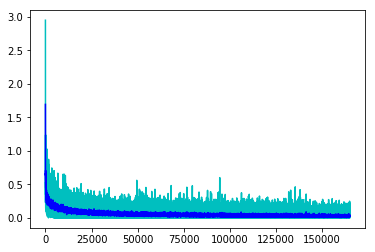
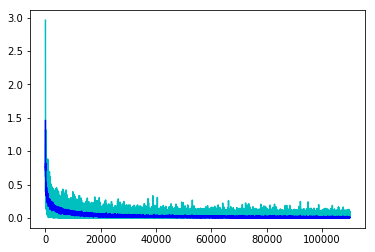
Reduce the number of hidden layers

diff --git a/magnet_loss.py b/magnet_loss.py
@@ -81,7 +81,7 @@ mnist = input_data.read_data_sets('MNIST_data')
 x_train, y_train = mnist.train.images, mnist.train.labels
 
 learning_rate = 0.01
-n_epochs = 300
+n_epochs = 200
 batch_size = 100
 feature_size = 784
 embed_size = 2
@@ -99,26 +99,20 @@ features, label = iterator.get_next()
 
 train_init = iterator.make_initializer(train_data)
 
-w1 = tf.Variable(tf.random_normal(shape=[feature_size, 40], stddev=0.01), name="weights1")
-b1 = tf.Variable(tf.zeros([1, 40]), name="bias1")
+w1 = tf.Variable(tf.random_normal(shape=[feature_size, 393], stddev=0.01), name="weights1")
+b1 = tf.Variable(tf.zeros([1, 393]), name="bias1")
 h1 = tf.add(tf.matmul(tf.cast(features, tf.float32), w1), b1)
 h1 = tf.layers.batch_normalization(h1, training=True)
 h1 = tf.nn.relu(h1)
 
-w2 = tf.Variable(tf.random_normal(shape=[40, 20], stddev=0.01), name="weights2")
-b2 = tf.Variable(tf.zeros([1, 20]), name="bias2")
+w2 = tf.Variable(tf.random_normal(shape=[393, embed_size], stddev=0.01), name="weights2")
+b2 = tf.Variable(tf.zeros([1, embed_size]), name="bias2")
 h2 = tf.add(tf.matmul(tf.cast(h1, tf.float32), w2), b2)
 h2 = tf.layers.batch_normalization(h2, training=True)
-h2 = tf.nn.relu(h2)
-
-w3 = tf.Variable(tf.random_normal(shape=[20, 2], stddev=0.01), name="weights3")
-b3 = tf.Variable(tf.zeros([1, 2]), name="bias3")
-h3 = tf.add(tf.matmul(tf.cast(h2, tf.float32), w3), b3)
-h3 = tf.layers.batch_normalization(h3, training=True)
-emb = tf.nn.sigmoid(h3)
+emb = tf.nn.sigmoid(h2)
 
 train_loss, losses = unimodal_magnet_loss(emb, label)
-
+h2
 optimizer = tf.train.AdamOptimizer(learning_rate=learning_rate).minimize(train_loss)
 
 with tf.Session() as sess:

diff --git a/README.md b/README.md
@@ -1,20 +1,23 @@
 # magnet-loss
 
-An encoder to learn embeddings using the magnet loss implemented in TensorFlow. See "METRIC LEARNING WITH ADAPTIVE DENSITY DISCRIMINATION" by Rippel et al. The codes from the following repos are used:
+An encoder for learning embeddings via minimizing the magnet loss. It can be used for semi-supervised clustering. See "METRIC LEARNING WITH ADAPTIVE DENSITY DISCRIMINATION" by Rippel et al. The codes from the following repos are used:
 * https://github.com/pumpikano/tf-magnet-loss
 * https://github.com/nwojke/cosine_metric_learning/blob/master/losses.py
 
+Batch Losses
 ```
-$ plot_smooth(batch_losses)
+plot_smooth(batch_losses)
 ```
 ![batch_losses](https://raw.githubusercontent.com/youngklee/magnet-loss/master/batch_losses.png)
 
+Initial Embeddings of the MNIST dataset
 ```
-$ plot_embedding(initial_reps[:400], y_train[:400])
+plot_embedding(initial_reps[:500], y_train[:500])
 ```
 ![initial_embeddings](https://raw.githubusercontent.com/youngklee/magnet-loss/master/initial_embeddings.png)
 
+Final Embeddings
 ```
-$ plot_embedding(final_reps[:400], y_train[:400])
+plot_embedding(final_reps[:500], y_train[:500])
 ```
 ![final_embeddings](https://raw.githubusercontent.com/youngklee/magnet-loss/master/final_embeddings.png)
